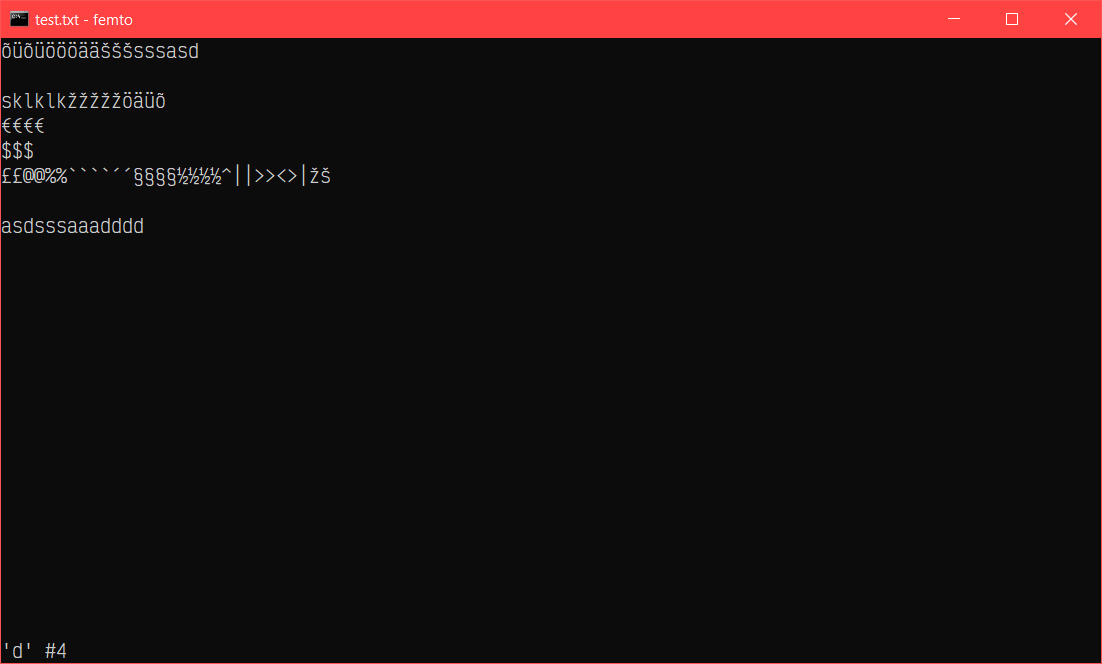
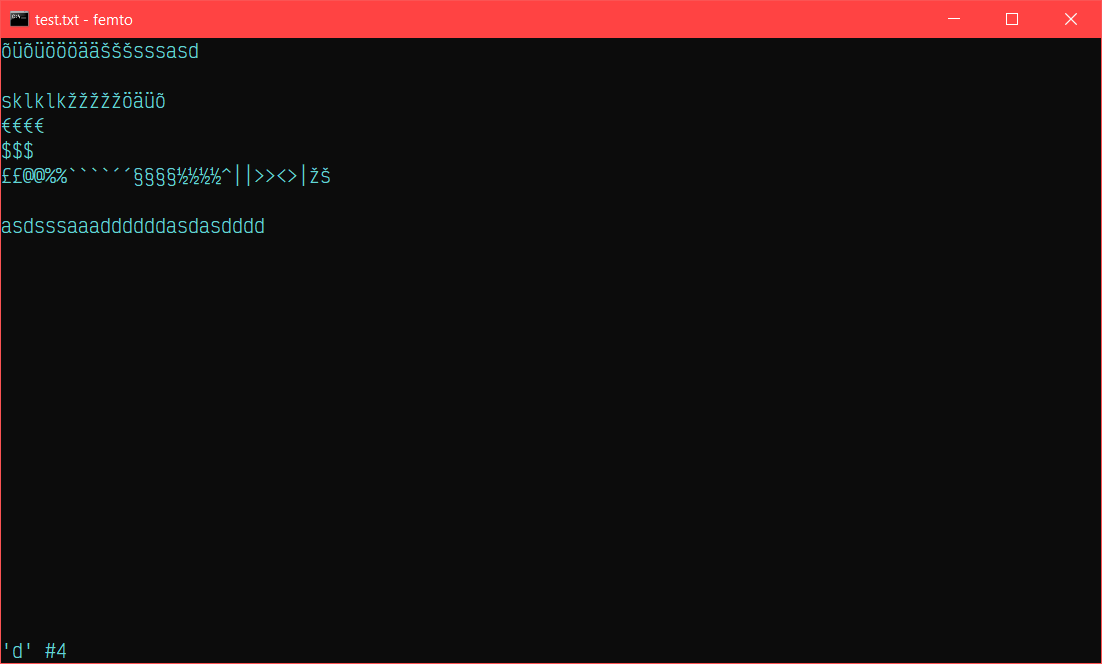
Update screens

diff --git a/README.md b/README.md
@@ -95,7 +95,7 @@ Currently, my other tool [slocWin32](https://github.com/makuke1234/slocWin32) re
 ## Last key shown on status bar with respective repeat count
 ![Key frequency](./images/keyFreq.png)
 
-## Saving was successful, file size is now 140 bytes
+## Saving was successful, file size is now 151 bytes
 ![!Saving success](./images/savingSuc.png)
 
 
